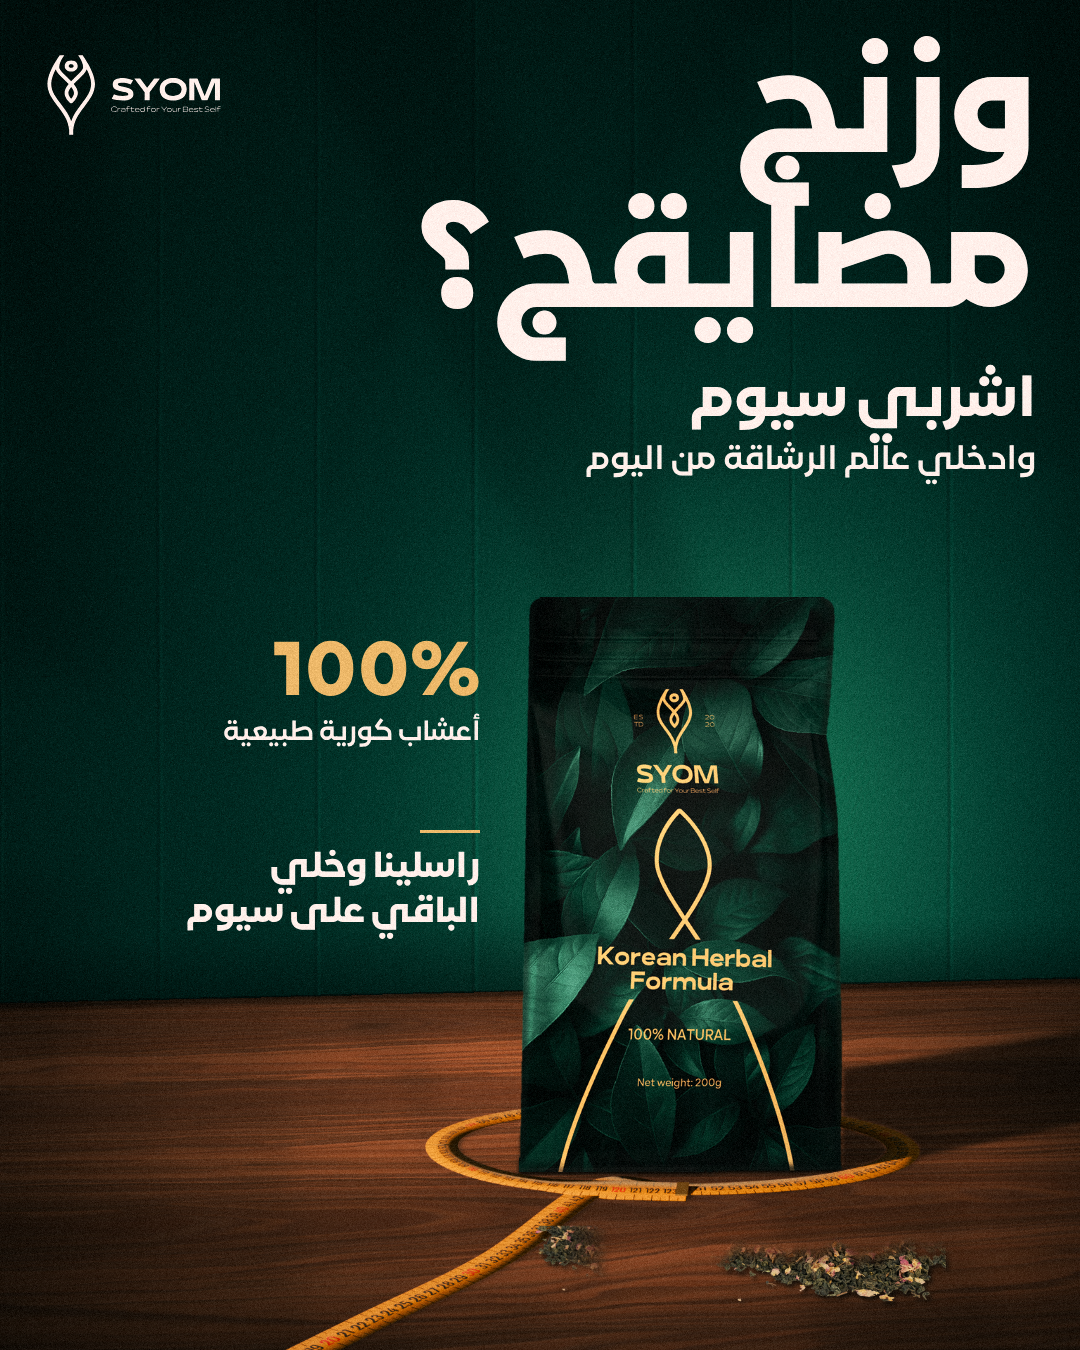
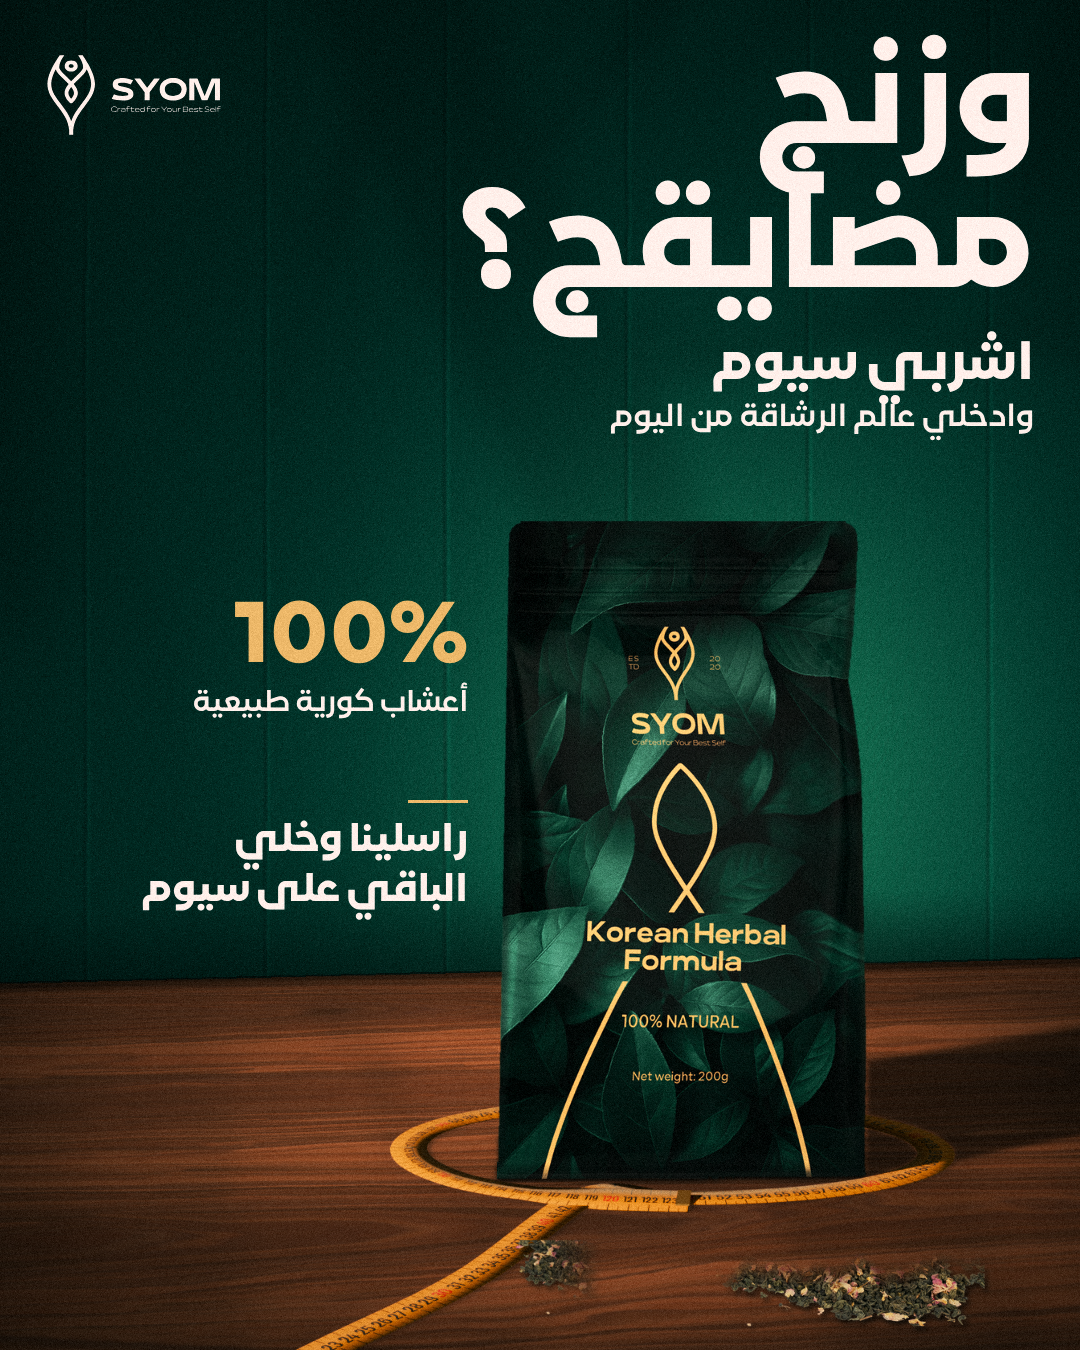
Syom Tea: ad D post framed tighter on the pouch

Changed region(s): [[0.0, 0.0311, 1.0, 1.0], [0.9472, 0.9022, 1.0, 0.9956]]

diff --git a/marketing/syom-tea/adD/ad-post.html b/marketing/syom-tea/adD/ad-post.html
@@ -11,23 +11,24 @@
   body { margin: 0; background: #222; }
   .f { position: relative; overflow: hidden; font-family: Lama; font-synthesis: none; color: var(--lily); }
   .f > * { position: absolute; margin: 0; }
-  /* the same scene as the Story, framed wider (plate-228.png, 1536x1920) and set at 1080x1350 */
+  /* the same scene as the Story, rendered wider (plate-228.png, 1536x1920) and framed tight on the pouch:
+     the 1344x1680 crop at (120, 200) set at 1080x1350 */
   #syom-adD-post { width: 1080px; height: 1350px; }
-  .plate { inset: 0; width: 100%; height: 100%; }
+  .plate { left: -96.4px; top: -160.7px; width: 1234.3px; height: 1542.9px; }
 
   .logo { left: 46px; top: 54px; width: 176px; }
-  .head { right: 44px; top: 42px; font-weight: 900; font-size: 150px; line-height: 1.03; letter-spacing: -2px; text-align: right; }
+  .head { right: 44px; top: 40px; font-weight: 900; font-size: 140px; line-height: 1.03; letter-spacing: -2px; text-align: right; }
   .head span { display: block; white-space: nowrap; }
 
-  .herb { right: 600px; top: 640px; width: 360px; margin: 0; font-weight: 700; font-size: 28px; line-height: 1.25; white-space: nowrap; }
-  .herb b { display: block; font-weight: 900; font-size: 76px; line-height: 1; color: var(--gold); }
+  .herb { right: 612px; top: 600px; width: 400px; margin: 0; font-weight: 700; font-size: 30px; line-height: 1.25; white-space: nowrap; }
+  .herb b { display: block; font-weight: 900; font-size: 86px; line-height: 1; color: var(--gold); }
 
-  .ans { right: 44px; top: 372px; text-align: right; }
+  .ans { right: 46px; top: 338px; text-align: right; }
   .ans > * { margin: 0; }
-  .d1 { font-weight: 900; font-size: 58px; line-height: 1.1; white-space: nowrap; }
-  .d2 { margin-top: 4px !important; font-weight: 700; font-size: 34px; line-height: 1.3; white-space: nowrap; }
+  .d1 { font-weight: 900; font-size: 54px; line-height: 1.1; white-space: nowrap; }
+  .d2 { margin-top: 2px !important; font-weight: 700; font-size: 32px; line-height: 1.3; white-space: nowrap; }
 
-  .cta { right: 600px; top: 830px; font-weight: 900; font-size: 36px; line-height: 1.25; white-space: nowrap; }
+  .cta { right: 612px; top: 800px; font-weight: 900; font-size: 40px; line-height: 1.25; white-space: nowrap; }
   .cta::before { content: ''; display: block; width: 60px; height: 3px; margin: 0 0 14px auto; background: var(--gold); }
 </style>
 </head>
